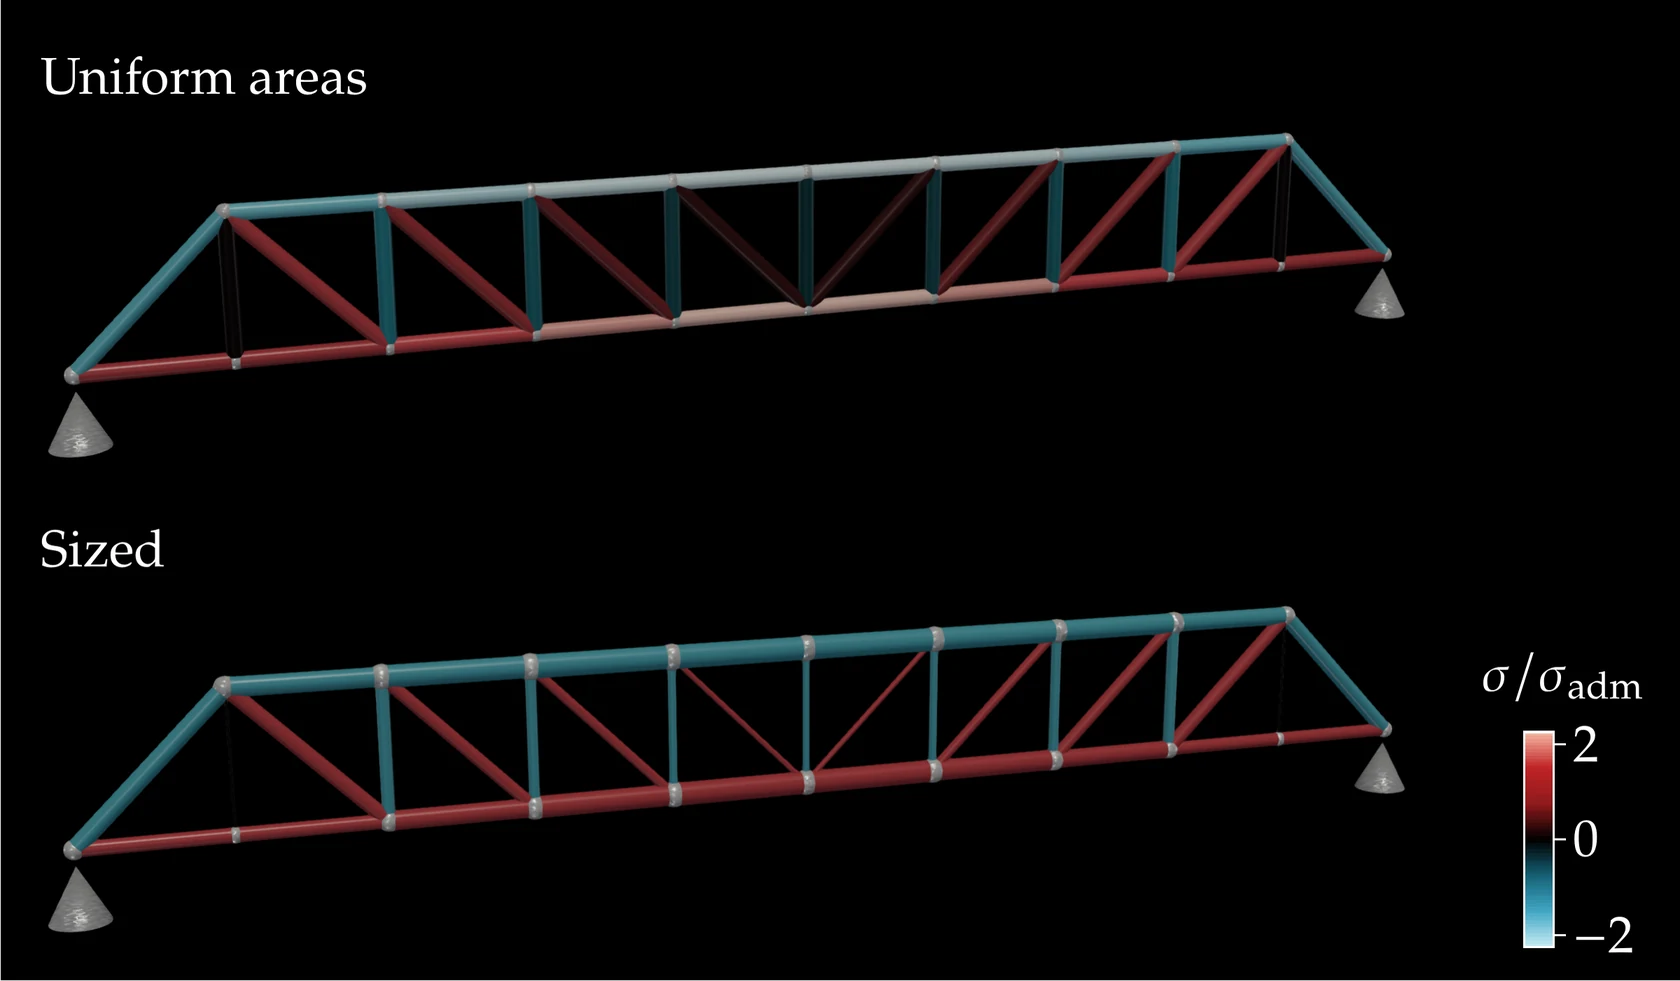
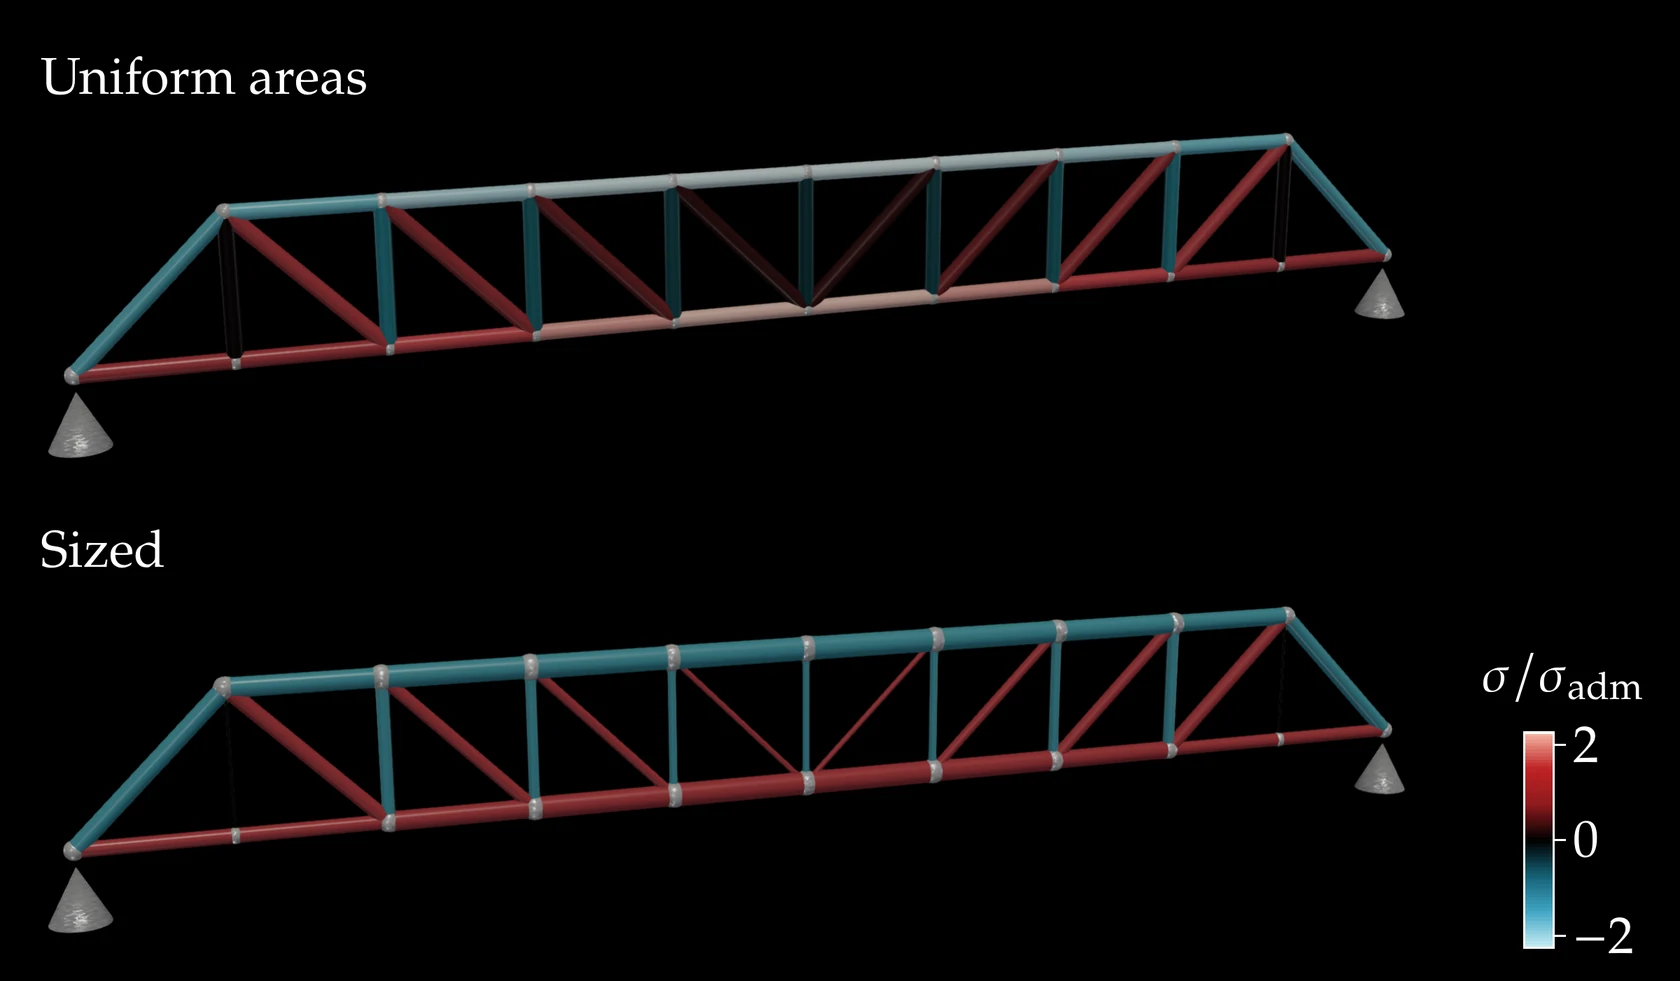
Remove the white edge line from the README figure
pdftoppm rounds the page up to whole pixels and paints the sliver past
the page white. overlay.py now gives the LaTeX page a black background
and keeps only pixels wholly inside the page; the figure is re-made.

Changed region(s): [[0.031, 0.5505, 0.0929, 0.581]]

diff --git a/scripts/render/overlay.py b/scripts/render/overlay.py
@@ -123,6 +123,8 @@ def compose(panels, stem, bar=None, layout="column", check=True, notes=()):
 \usepackage[T1]{fontenc}
 \usepackage{newpxtext,newpxmath}
 \usepackage{graphicx}
+\usepackage{xcolor}
+\pagecolor{black}%% the rasteriser rounds the page up to whole pixels: keep that sliver black
 \begin{document}
 \begin{tikzpicture}[x=1mm,y=1mm,font=\fontsize{10.95}{13.1}\selectfont]
 \clip (0,0) rectangle (%s,%s);
@@ -137,7 +139,11 @@ def compose(panels, stem, bar=None, layout="column", check=True, notes=()):
             raise RuntimeError(run.stdout[-2000:])
         subprocess.run(["pdftoppm", "-png", "-r", f"{PX_PER_MM * 25.4:.3f}", "-singlefile", f"{name}.pdf", name],
                        cwd=work, check=True)
-        return Image.open(work / f"{name}.png").convert("RGB").resize((W_px, H_px), Image.LANCZOS)
+        img = Image.open(work / f"{name}.png").convert("RGB")
+        # pdftoppm rounds the page up to whole pixels and paints the part past the page white:
+        # keep only pixels that lie wholly inside the page
+        inside = (min(img.width, int(WIDTH_MM * PX_PER_MM)), min(img.height, int(H * PX_PER_MM)))
+        return img.crop((0, 0) + inside).resize((W_px, H_px), Image.LANCZOS)
 
     note_lines = []
     if notes:
